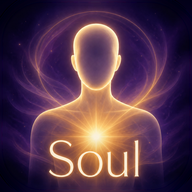
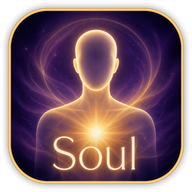
Icoană rotunjită fără fundal negru, cu bordură aurie
Claude-Session: https://claude.ai/code/session_01PCZtj2iNJxFCPy5tpssiRy

diff --git a/index.html b/index.html
@@ -1,4 +1,4 @@
-<!doctype html><html lang="ro"><head><meta charset="utf-8"><meta name="viewport" content="width=device-width,initial-scale=1,viewport-fit=cover"><meta name="theme-color" content="#0e1424"><meta name="mobile-web-app-capable" content="yes"><meta name="apple-mobile-web-app-capable" content="yes"><meta name="apple-mobile-web-app-title" content="SOUL"><meta name="apple-mobile-web-app-status-bar-style" content="black-translucent"><link rel="manifest" href="manifest.webmanifest"><link rel="apple-touch-icon" href="icons/apple-touch-icon.png?v=4"><link rel="icon" href="icons/icon-192.png?v=4"><title>SOUL — Your Peaceful Place</title>
+<!doctype html><html lang="ro"><head><meta charset="utf-8"><meta name="viewport" content="width=device-width,initial-scale=1,viewport-fit=cover"><meta name="theme-color" content="#0e1424"><meta name="mobile-web-app-capable" content="yes"><meta name="apple-mobile-web-app-capable" content="yes"><meta name="apple-mobile-web-app-title" content="SOUL"><meta name="apple-mobile-web-app-status-bar-style" content="black-translucent"><link rel="manifest" href="manifest.webmanifest"><link rel="apple-touch-icon" href="icons/apple-touch-icon.png?v=5"><link rel="icon" href="icons/icon-192.png?v=5"><title>SOUL — Your Peaceful Place</title>
 <meta name="claude:viewport-fit-sides" content="cover">
 <link rel="stylesheet" href="https://fonts.googleapis.com/css2?family=Cormorant+Garamond:ital,wght@0,400;0,500;0,600;1,400&family=Nunito:wght@300;400;600&display=swap">
 <style>

diff --git a/sw.js b/sw.js
@@ -1,5 +1,5 @@
 // SOUL service worker: makes the app open offline. Bump VERSION after changing index.html.
-const VERSION = 'soul-v4';
+const VERSION = 'soul-v5';
 const SHELL = ['./', 'index.html', 'manifest.webmanifest', 'icons/icon-192.png', 'icons/icon-512.png', 'icons/apple-touch-icon.png'];
 self.addEventListener('install', e => { e.waitUntil(caches.open(VERSION).then(c => c.addAll(SHELL)).then(() => self.skipWaiting())); });
 self.addEventListener('activate', e => { e.waitUntil(caches.keys().then(ks => Promise.all(ks.filter(k => k !== VERSION).map(k => caches.delete(k)))).then(() => self.clients.claim())); });
